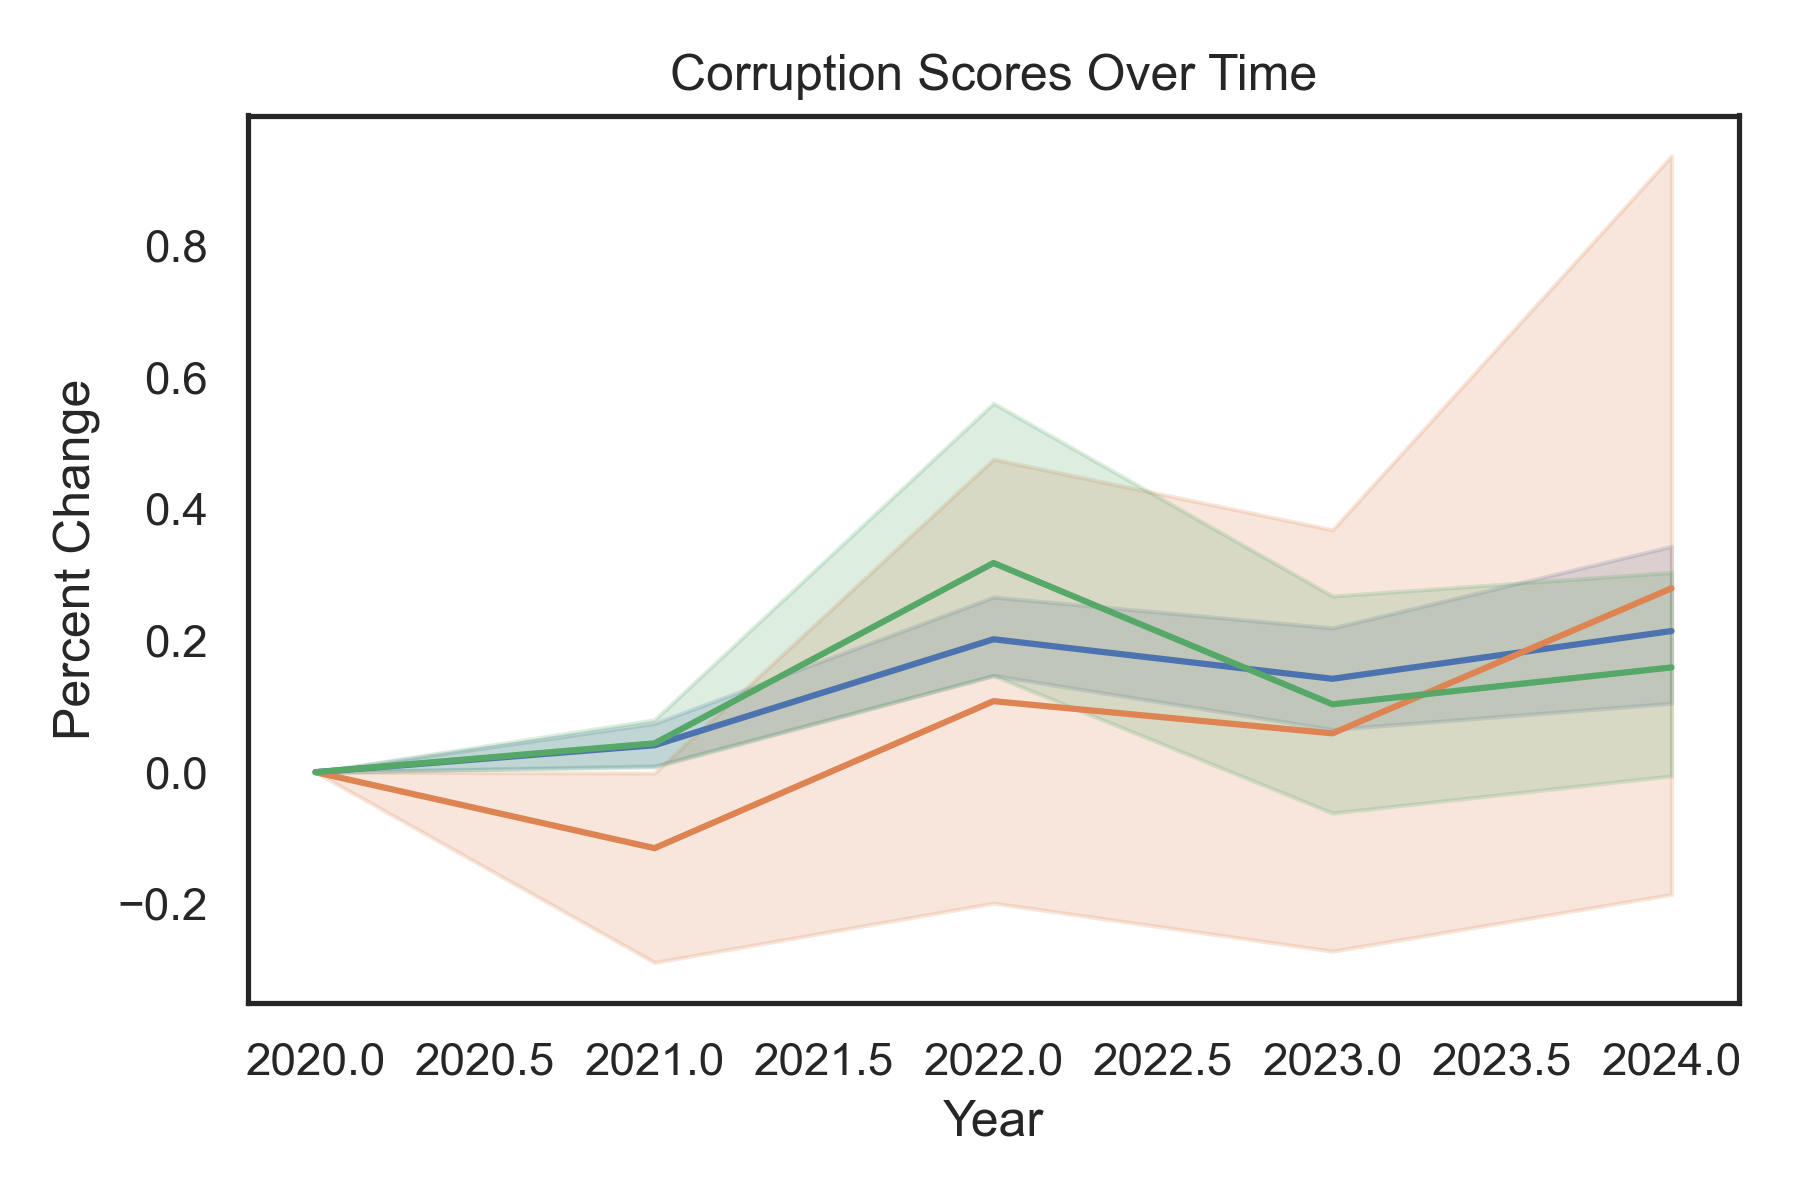
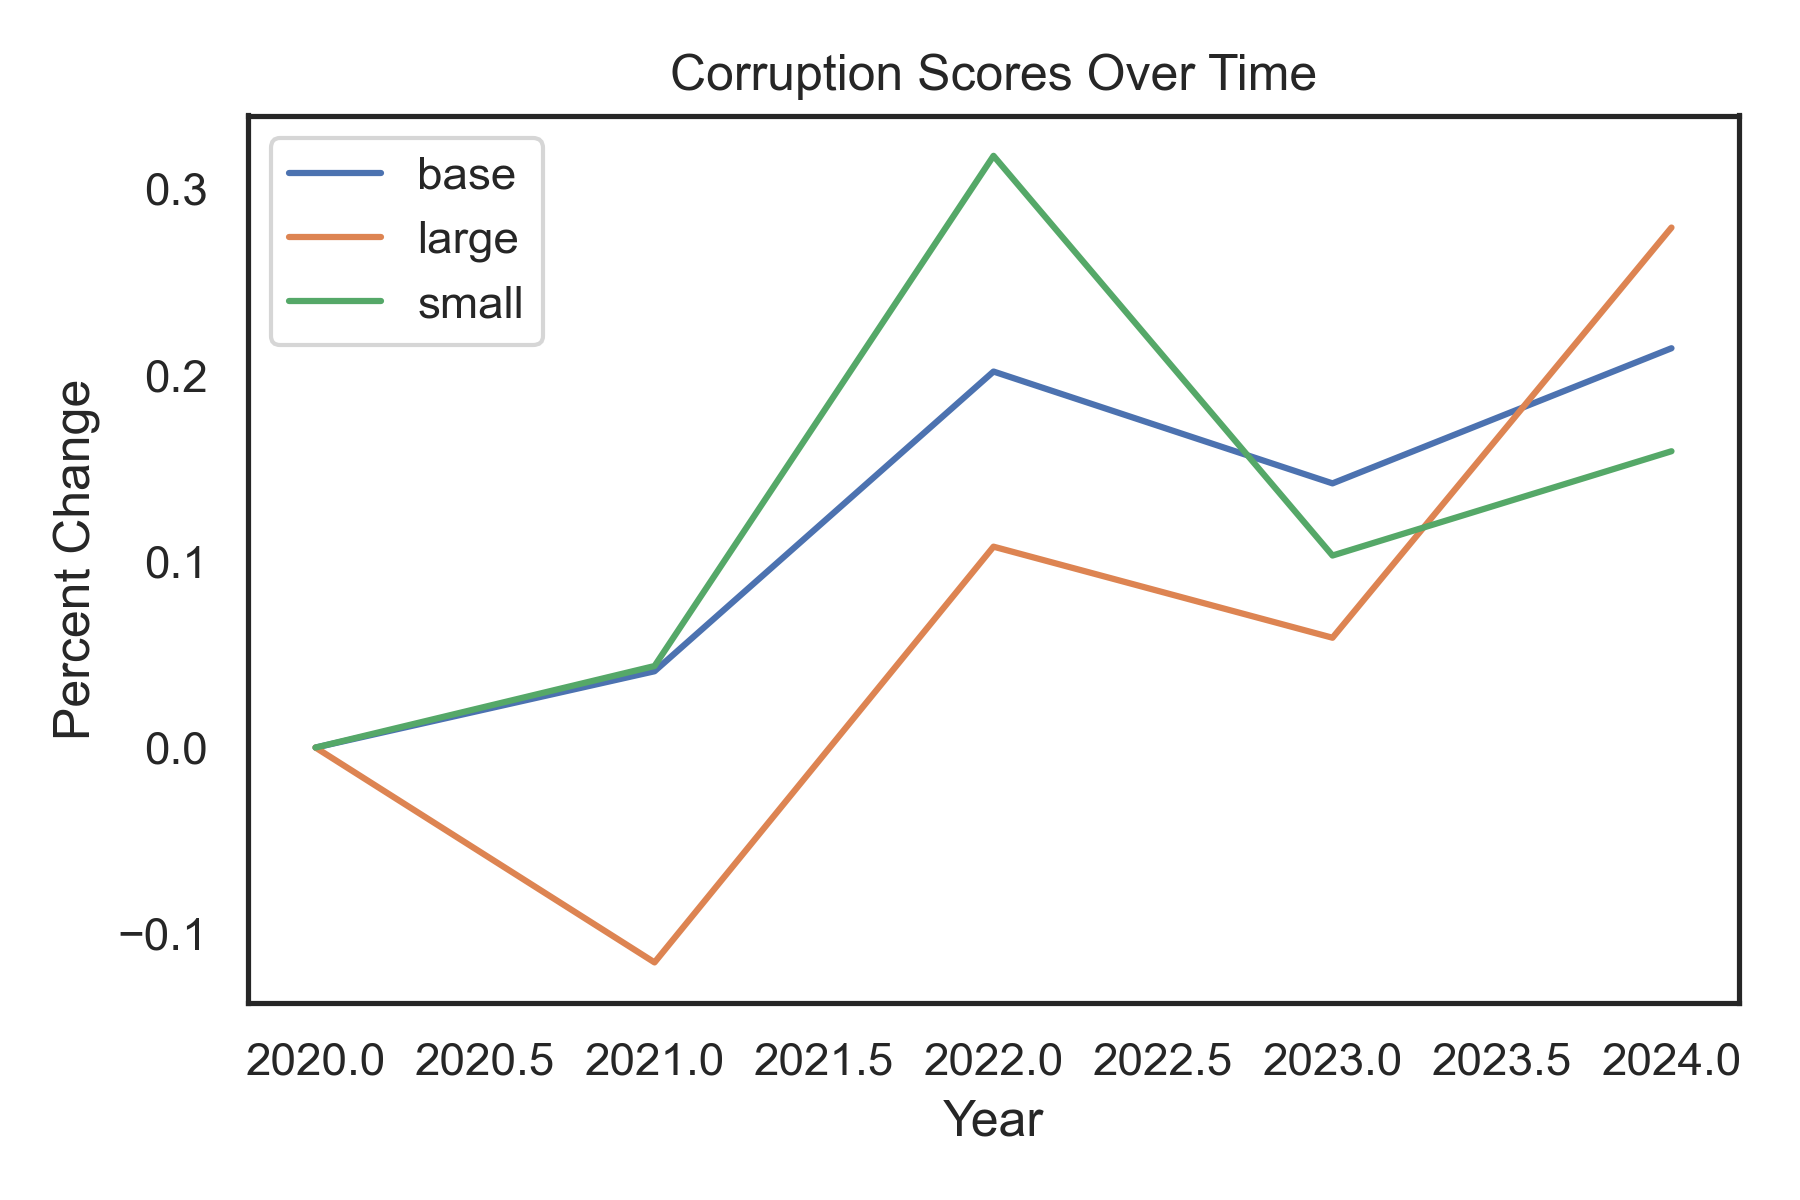
graphs

diff --git a/graphs.py b/graphs.py
@@ -30,65 +30,157 @@ print('Varibles with the highest t-values and lowest p-values: Generosity, Choic
 
 # test to determine which regions to look at
 var=base.query('year==2024')
-var.plot.barh(y='Happyness',x='Regional indicator')
+var.plot.barh(y='Happyness',x='Region')
 print('Regions to look: South Asia, Commonwealth of Independent States, and North America and ANZ')
 
-# graph number 1: basic 'happyness' by region
+# graph number 1: base 'happyness' by region
 fig,ax=plt.subplots()
-sns.lineplot(x='year',y='Happyness',hue='Regional indicator',data=base)
+sns.lineplot(x='year',y='Happyness',hue='Region',data=base)
 ax.set_title('Happyness Scores Over Time')
 ax.set_xlabel('Year')
 ax.set_ylabel('Percent Change')
 fig.tight_layout()
 fig.savefig('happyness_by_region.png')
 
-# graph number 2: basic vs large and small by generosity in general
+# graph number 2: base vs large and small by generosity in general
 fig,ax=plt.subplots()
-sns.lineplot(x='year',y='Generosity', data=base)
-sns.lineplot(x='year',y='Generosity', data=large)
-sns.lineplot(x='year',y='Generosity', data=small)
+sns.lineplot(x='year',y='Generosity', label='base', data=base, errorbar=None)
+sns.lineplot(x='year',y='Generosity', label='large', data=large, errorbar=None)
+sns.lineplot(x='year',y='Generosity', label='small', data=small, errorbar=None)
 ax.set_title('Generosity Scores Over Time')
 ax.set_xlabel('Year')
 ax.set_ylabel('Percent Change')
 fig.tight_layout()
 fig.savefig('generosity_by_type.png')
 
-# graph number 3: basic vs large and small by choices in general
+# graph number 3: base vs large and small by choices in general
 fig,ax=plt.subplots()
-sns.lineplot(x='year',y='Choices', data=base)
-sns.lineplot(x='year',y='Choices', data=large)
-sns.lineplot(x='year',y='Choices', data=small)
+sns.lineplot(x='year',y='Choices', label='base', data=base, errorbar=None)
+sns.lineplot(x='year',y='Choices', label='large', data=large, errorbar=None)
+sns.lineplot(x='year',y='Choices', label='small', data=small, errorbar=None)
 ax.set_title('Choices Scores Over Time')
 ax.set_xlabel('Year')
 ax.set_ylabel('Percent Change')
 fig.tight_layout()
 fig.savefig('choices_by_type.png')
 
-# graph number 4: basic vs large and small by corruption in general
+# graph number 4: base vs large and small by corruption in general
 fig,ax=plt.subplots()
-sns.lineplot(x='year',y='Corruption', data=base)
-sns.lineplot(x='year',y='Corruption', data=large)
-sns.lineplot(x='year',y='Corruption', data=small)
+sns.lineplot(x='year',y='Corruption', label='base', data=base, errorbar=None)
+sns.lineplot(x='year',y='Corruption', label='large', data=large, errorbar=None)
+sns.lineplot(x='year',y='Corruption', label='small', data=small, errorbar=None)
 ax.set_title('Corruption Scores Over Time')
 ax.set_xlabel('Year')
 ax.set_ylabel('Percent Change')
 fig.tight_layout()
 fig.savefig('corruption_by_type.png')
 
-# graph number 5: basic vs large and small by generosity in #South Asia
+# Creating small dataset by Region only
+SA_B=base.query("Region=='South Asia'")
+SA_L=large.query("Region=='South Asia'")
+SA_S=small.query("Region=='South Asia'")
+CIS_B=base.query("Region=='Commonwealth of Independent States'")
+CIS_L=large.query("Region=='Commonwealth of Independent States'")
+CIS_S=small.query("Region=='Commonwealth of Independent States'")
+NA_B=base.query("Region=='North America and ANZ'")
+NA_L=large.query("Region=='North America and ANZ'")
+NA_S=small.query("Region=='North America and ANZ'")
 
-# graph number 6: basic vs large and small by generosity in #Commonwealth of Independent States
+# graph number 5: basic vs large and small by generosity in South Asia
+fig,ax=plt.subplots()
+sns.lineplot(x='year',y='Generosity', label='base', data=SA_B)
+sns.lineplot(x='year',y='Generosity', label='large', data=SA_L)
+sns.lineplot(x='year',y='Generosity', label='small', data=SA_S)
+ax.set_title('Generosity in South Asia')
+ax.set_xlabel('Year')
+ax.set_ylabel('Percent Change')
+fig.tight_layout()
+fig.savefig('generosity_in_South_Asia.png')
 
-# graph number 7: basic vs large and small by generosity in #North America and ANZ
+# graph number 6: base vs large and small by generosity in Commonwealth of Independent States
+fig,ax=plt.subplots()
+sns.lineplot(x='year',y='Generosity', label='base', data=CIS_B)
+sns.lineplot(x='year',y='Generosity', label='large',data=CIS_L)
+sns.lineplot(x='year',y='Generosity', label='small', data=CIS_S)
+ax.set_title('Generosity in Commonwealth of Independent States')
+ax.set_xlabel('Year')
+ax.set_ylabel('Percent Change')
+fig.tight_layout()
+fig.savefig('generosity_in_Commonwealth_of_Independent_States.png')
 
-# graph number 8: basic vs large and small by choices in #South Asia
+# graph number 7: base vs large and small by generosity in North America and ANZ
+fig,ax=plt.subplots()
+sns.lineplot(x='year',y='Generosity', label='base', data=NA_B)
+sns.lineplot(x='year',y='Generosity', label='large',data=NA_L)
+sns.lineplot(x='year',y='Generosity', label='small', data=NA_S)
+ax.set_title('Generosity in North America and ANZ')
+ax.set_xlabel('Year')
+ax.set_ylabel('Percent Change')
+fig.tight_layout()
+fig.savefig('generosity_in_North_America_and_ANZ.png')
 
-# graph number 9: basic vs large and small by choices in #Commonwealth of Independent States
+# graph number 8: base vs large and small by choices in South Asia
+fig,ax=plt.subplots()
+sns.lineplot(x='year',y='Choices', label='base', data=SA_B)
+sns.lineplot(x='year',y='Choices', label='large', data=SA_L)
+sns.lineplot(x='year',y='Choices', label='small', data=SA_S)
+ax.set_title('Choices in South Asia')
+ax.set_xlabel('Year')
+ax.set_ylabel('Percent Change')
+fig.tight_layout()
+fig.savefig('choices_in_South_Asia.png')
 
-# graph number 10: basic vs large and small by choices in #North America and ANZ
+# graph number 9: base vs large and small by choices in Commonwealth of Independent States
+fig,ax=plt.subplots()
+sns.lineplot(x='year',y='Choices', label='base', data=CIS_B)
+sns.lineplot(x='year',y='Choices', label='large', data=CIS_L)
+sns.lineplot(x='year',y='Choices', label='small', data=CIS_S)
+ax.set_title('Choices in Commonwealth of Independent States')
+ax.set_xlabel('Year')
+ax.set_ylabel('Percent Change')
+fig.tight_layout()
+fig.savefig('choices_in_Commonwealth_of_Independent_States.png')
 
-# graph number 11: basic vs large and small by corruption in #South Asia
+# graph number 10: base vs large and small by choices in North America and ANZ
+fig,ax=plt.subplots()
+sns.lineplot(x='year',y='Choices', label='base', data=NA_B)
+sns.lineplot(x='year',y='Choices', label='large', data=NA_L)
+sns.lineplot(x='year',y='Choices', label='small', data=NA_S)
+ax.set_title('Choices in North America and ANZ')
+ax.set_xlabel('Year')
+ax.set_ylabel('Percent Change')
+fig.tight_layout()
+fig.savefig('choices_in_North_America_and_ANZ.png')
 
-# graph number 12: basic vs large and small by corruption in #Commonwealth of Independent States
+# graph number 11: base vs large and small by corruption in South Asia
+fig,ax=plt.subplots()
+sns.lineplot(x='year',y='Corruption', label='base', data=SA_B)
+sns.lineplot(x='year',y='Corruption', label='large', data=SA_L)
+sns.lineplot(x='year',y='Corruption', label='small', data=SA_S)
+ax.set_title('Corruption in South Asia')
+ax.set_xlabel('Year')
+ax.set_ylabel('Percent Change')
+fig.tight_layout()
+fig.savefig('corruption_in_South_Asia.png')
 
-# graph number 13: basic vs large and small by corruption in #North America and ANZ
+# graph number 12: base vs large and small by corruption in Commonwealth of Independent States
+fig,ax=plt.subplots()
+sns.lineplot(x='year',y='Corruption', label='base', data=CIS_B)
+sns.lineplot(x='year',y='Corruption', label='large', data=CIS_L)
+sns.lineplot(x='year',y='Corruption', label='small', data=CIS_S)
+ax.set_title('Corruption in Commonwealth of Independent_States')
+ax.set_xlabel('Year')
+ax.set_ylabel('Percent Change')
+fig.tight_layout()
+fig.savefig('corruption_in_Commonwealth_of_Independent States.png')
+
+# graph number 13: base vs large and small by corruption in North America and ANZ
+fig,ax=plt.subplots()
+sns.lineplot(x='year',y='Corruption', label='base', data=NA_B)
+sns.lineplot(x='year',y='Corruption', label='large', data=NA_L)
+sns.lineplot(x='year',y='Corruption', label='small', data=NA_S)
+ax.set_title('Corruption in North America and ANZ')
+ax.set_xlabel('Year')
+ax.set_ylabel('Percent Change')
+fig.tight_layout()
+fig.savefig('corruption_in_North_America_and_ANZ.png')

diff --git a/seperate.py b/seperate.py
@@ -11,7 +11,7 @@ import pandas as pd
 data=pd.read_csv('happy.csv')
 
 # fixing columns names and droping
-data=data.rename(columns={'Ladder score':'Happyness','Explained by: Log GDP per capita':'GDP','Explained by: Social support':'Social','Explained by: Healthy life expectancy':'Health','Explained by: Freedom to make life choices':'Choices','Explained by: Generosity':'Generosity','Explained by: Perceptions of corruption':'Corruption','Dystopia + residual':'Dystopia'})
+data=data.rename(columns={'Ladder score':'Happyness','Explained by: Log GDP per capita':'GDP','Explained by: Social support':'Social','Explained by: Healthy life expectancy':'Health','Explained by: Freedom to make life choices':'Choices','Explained by: Generosity':'Generosity','Explained by: Perceptions of corruption':'Corruption','Dystopia + residual':'Dystopia','Regional indicator':'Region'})
 drop=['Unnamed: 0','upperwhisker','lowerwhisker']
 data=data.drop(columns=drop)
 
@@ -27,7 +27,7 @@ trim=dwlsp[sep_sm==False]
 
 # Calculationg for growth for every region for every category
 trim2=trim.set_index(['Country name'])
-avgs=trim2.groupby(['year','Regional indicator']).mean()
+avgs=trim2.groupby(['year','Region']).mean()
 avg20=avgs.xs(2020,level='year')
 diff=avgs-avg20
 growth=diff.div(avg20)
@@ -40,14 +40,14 @@ SSD=data[SSD_trim==True]
 
 # Calculating for growth for large sepratist movement
 LSD2=LSD.set_index(['Country name'])
-avg_LS=LSD2.groupby(['year','Regional indicator']).mean()
+avg_LS=LSD2.groupby(['year','Region']).mean()
 avg20_LS=avg_LS.xs(2020,level='year')
 dif_LS=avg_LS-avg20_LS
 growth_LS=dif_LS.div(avg20_LS)
 
 # Calculating for growth for small sepratist movement
 SSD2=SSD.set_index(['Country name'])
-avg_SS=SSD2.groupby(['year','Regional indicator']).mean()
+avg_SS=SSD2.groupby(['year','Region']).mean()
 avg20_SS=avg_SS.xs(2020,level='year')
 dif_SS=avg_SS-avg20_SS
 growth_SS=dif_SS.div(avg20_SS)
